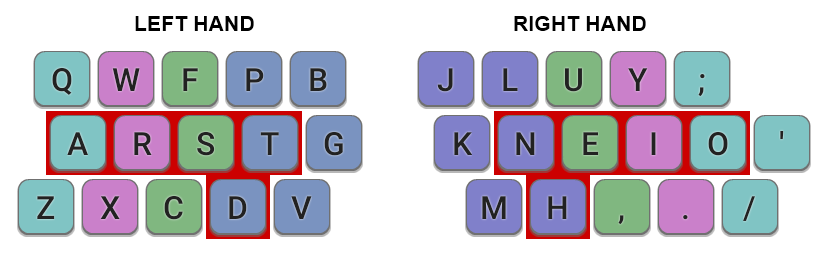
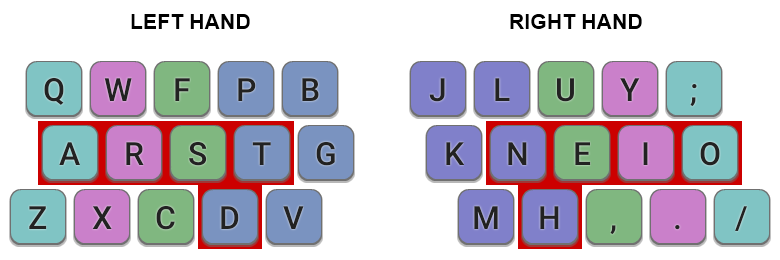
Add slideshow DH/DHm graphic on main page

diff --git a/index.html b/index.html
@@ -21,9 +21,34 @@
 
       ga('create', 'UA-56831209-1', 'auto');
       ga('send', 'pageview');
-    </script>    
+    </script>
+    <script>
+    var slideIndex = 0;
+    var slideCallback;
+
+    function advanceSlide(n, auto) {
+        slideIndex+=n;
+        showSlide(auto)
+    }
+
+    function showSlide(auto){
+      var i;
+      var slides = document.getElementsByClassName("slide");
+      if (slideIndex >= slides.length) {slideIndex = 0}
+      if (slideIndex < 0) {slideIndex = slides.length-1}
+      for (i = 0; i < slides.length; i++) {
+        slides[i].style.display = "none";  
+      }
+      slides[slideIndex].style.display = "block";  
+      // show next slide after a delay
+      clearTimeout(slideCallback);
+      if (auto) {
+        slideCallback = setTimeout(function(){advanceSlide(1, true)}, 12000);
+      }
+    }
+    </script>
   </head>
-  <body>
+  <body onLoad="showSlide(true)">
     <div class="wrapper">
       <header>
         <h1 class="header">Colemak Mod-DH</h1>
@@ -47,7 +72,6 @@
         <p class="header">This project is maintained by <a class="header name" href="https://github.com/ColemakMods">ColemakMods</a></p>
         -->
 
-
       </header>
       <section>
       
@@ -56,9 +80,25 @@
 
 <p>Colemak Mod-DH introduces a minor modification to the <a href="http://colemak.com/">Colemak</a> keyboard layout, designed to make typing more comfortable. The resulting layout is commonly known as <nobr><i><b>Colemak-DH</b></i></nobr>, with a variant for matrix-like keyboards called <nobr><i><b>Colemak-DHm</b></i></nobr>.</p>
 
-<p class="caption"><img src="gfx/mod_dh_main.png"/><br/>
-Colemak Mod-DH main keys, shown for an ISO keyboard. Keys are colored according to the finger that should be used. The 10 most common English letters are assigned to the 10 easiest keys (highlighted in red).
+<div class="slideshow-container">
+
+<div class="slide fade">
+<p class="caption"><img class="figure" src="gfx/mod_dh_main.png"/><br/>
+Colemak Mod-DH main keys for an ISO keyboard, known as <i>Colemak-DH</i>.<br/>
+Keys are colored according to the finger that should be used. The 10 most common English letters are assigned to the 10 easiest keys (highlighted&nbsp;in&nbsp;red).
 </p>
+</div>
+
+<div class="slide fade" style="display:none">
+<p class="caption"><img class="figure" src="gfx/mod_dhm_main.png"/><br/>
+Colemak Mod-DH main keys for a matrix-like keyboard, known as <i>Colemak-DHm</i>.<br/>
+Keys are colored according to the finger that should be used. The 10 most common English letters are assigned to the 10 easiest keys (highlighted&nbsp;in&nbsp;red).
+</p>
+</div>
+<a class="slide_prev" onclick="advanceSlide(-1, false)">&#10094;</a>
+<a class="slide_next" onclick="advanceSlide(1, false)">&#10095;</a>
+
+</div>
 
 <p>Colemak is a great layout, but that doesn't mean it's impossible to improve on! The idea behind Mod&#8209DH is that by making an adjustment to the placement of a small number of keys, it is possible to gain a significant improvement in ergonomics and comfort. See this <a href="./compare.html">comparison of Mod-DH</a> with other layouts.</p>
 
@@ -68,7 +108,7 @@ Colemak Mod-DH main keys, shown for an ISO keyboard. Keys are colored according 
 <ul>
 <li>Places the heavily used D and H keys in more comfortable and easier-to-reach positions.</li>
 <li>Moves G to a slightly easier position also, reverting to its placement in Qwerty.</li>
-<li>Reduces usage of the difficult-to-reach center column by about half.</li>
+<li>Reduces usage of the difficult-to-reach centre column by about half.</li>
 <li>Utilizes the "Angle Mod" (<a href="#angle-mod">see below</a>) to promote a more comfortable, symmetrical typing posture.</li></iu>
 <li>Retains Colemak's many other strengths, such as its home key placement and low rate of same-finger bigrams.</li>
 <li>No keys change fingers from standard Colemak, making it easy to adopt for existing Colemak users.</li>

diff --git a/stylesheets/steve.css b/stylesheets/steve.css
@@ -2,6 +2,10 @@
 .caption {margin-left: 20px; margin-right: 20px; font-size: smaller; text-align: center;}
 .center {margin-left: auto; margin-right: auto; display: block;}
 
+.figure {
+	max-width: 600px;
+}
+
 a.menu {
 	-webkit-font-smoothing: antialiased;
 	font-weight: normal;
@@ -15,14 +19,61 @@ a.menu.selected {
 }
 
 td img {
-  display: inline;
-  margin: 0;
-  padding: 0;
-  vertical-align: middle;
-  text-align: center;
-  border: none;
+	display: inline;
+	margin: 0;
+	padding: 0;
+	vertical-align: middle;
+	text-align: center;
+	border: none;
 }
 
 span {
-  white-space: nowrap;
+	white-space: nowrap;
+}
+
+/* styles for slideshow */
+
+.slideshow-container {
+	position: relative;
+	margin: auto;
+}
+
+.slide_prev, .slide_next {
+	cursor: pointer;
+	position: absolute;
+	top: 50%;
+	width: auto;
+	margin-top: -40px;
+	padding: 12px;
+	color: #555;
+	font-weight: bold;
+	font-size: 30px;
+	transition: 0.6s ease;
+	border-radius: 0 3px 3px 0;
+	user-select: none;
+}
+
+.slide_next {
+	right: 0;
+}
+
+.slide_prev:hover, .slide_next:hover {
+	background-color: rgba(0,0,0,0.5);
+}
+
+.fade {
+	-webkit-animation-name: fade;
+	-webkit-animation-duration: 1.0s;
+	animation-name: fade;
+	animation-duration: 1.0s;
+}
+
+@-webkit-keyframes fade {
+	from {opacity: .4}
+	to {opacity: 1}
+}
+
+@keyframes fade {
+	from {opacity: .4}
+	to {opacity: 1}
 }

diff --git a/keyboards.html b/keyboards.html
@@ -97,12 +97,8 @@
 
 <h4><a name="matrix-keyboards" class="anchor" href="#matrix-keyboards"><span class="octicon octicon-link"></span></a>Matrix/Ergonomic Keyboards</h4>
 
-<p class="caption"><img src="gfx/mod_dh_r2_keyb_matrix.png"/><br/>
-<u>Matrix "DH":</u> Colemak-DH for an idealized, non-staggered keyboard.</p>
-
-
 <p class="caption"><img src="gfx/mod_dh_r1_keyb_matrix.png"/><br/>
-<u>Matrix "DHm":</u> Colemak-DHm for a non-staggered keyboard. Due to the geometry of this type of keyboard, you may prefer to switch the M and K keys as per the original Mod-DH (rev 1) release.</p>
+<u>Matrix "DHm":</u> Colemak-DHm for a non-staggered keyboard. Due to the geometry of this type of keyboard, you may prefer the M and K keys as per the original Mod-DH (rev 1) release, with M positioned in the home row.</p>
 
       </section>
       <!--
